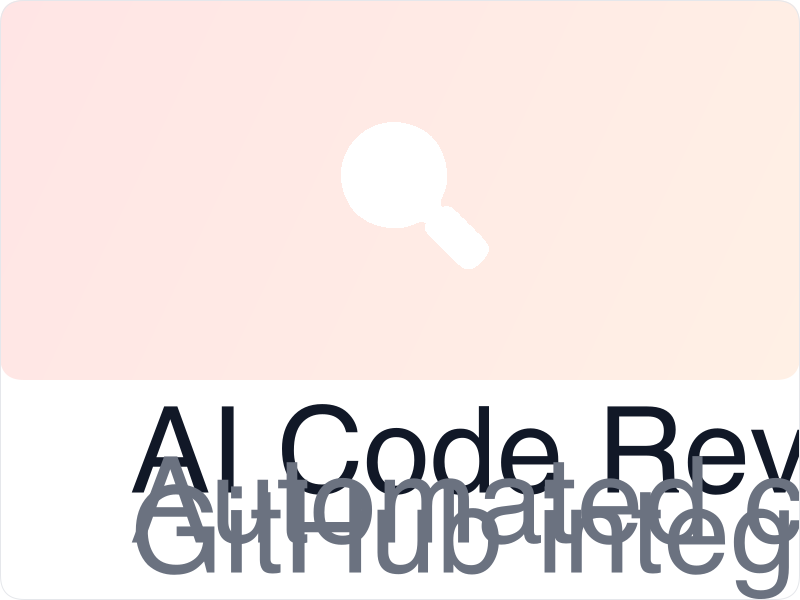
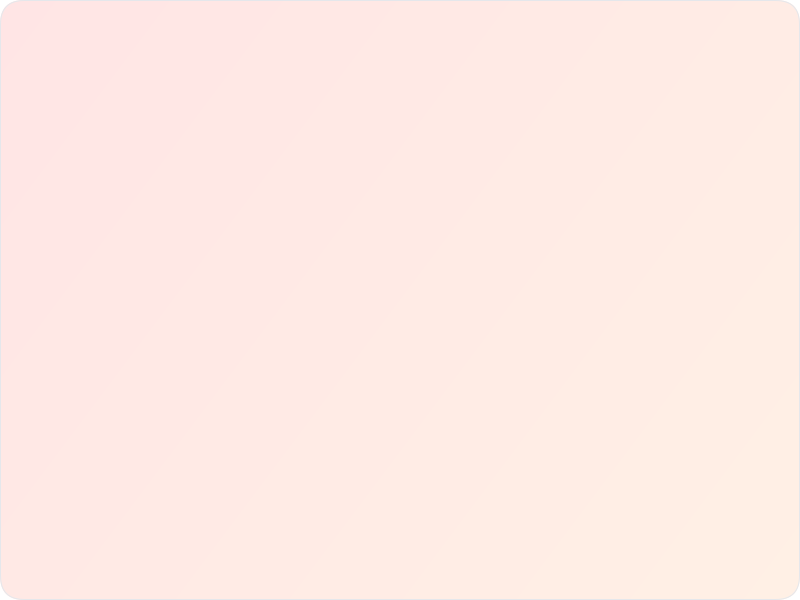
fix: regenerate project cards as clean gradient headers
Issue: Images had text baked in, overlapping with card HTML text

Changes:
- Removed title and description from generated images
- Images now only show gradient + centered emoji
- Removed white text section from canvas
- Full gradient background with rounded corners

Benefits:
- Clean separation: images for visuals, HTML for text
- 50-60% smaller file sizes (12-28KB vs 48-60KB)
- Better accessibility (text is in HTML, not images)
- Easier to maintain and update text content

New Image Sizes:
- rag-qa-system.png: 60KB → 22KB
- chatbot-platform.png: 54KB → 20KB
- agent-workflow.png: 59KB → 28KB
- ai-code-reviewer.png: 48KB → 12KB
- content-generator.png: 52KB → 23KB
- data-analyst.png: 57KB → 25KB
- portfolio-deployment.png: 55KB → 27KB

Total savings: ~250KB → ~160KB (36% reduction)

diff --git a/scripts/generate-project-cards.js b/scripts/generate-project-cards.js
@@ -88,38 +88,21 @@ function generateProjectCard(projectId) {
   ctx.antialias = 'subpixel'
   ctx.patternQuality = 'best'
 
-  // Draw gradient background
-  const gradient = ctx.createLinearGradient(0, 0, width, 380)
+  // Draw gradient background (full canvas)
+  const gradient = ctx.createLinearGradient(0, 0, width, height)
   gradient.addColorStop(0, config.gradientStart)
   gradient.addColorStop(1, config.gradientEnd)
 
-  // Rounded rectangle for gradient section
-  roundRect(ctx, 0, 0, width, 380, 24, gradient)
+  // Fill entire canvas with gradient
+  roundRect(ctx, 0, 0, width, height, 24, gradient)
 
-  // White bottom section
-  ctx.fillStyle = '#FFFFFF'
-  ctx.fillRect(0, 380, width, 220)
-
-  // Draw emoji
+  // Draw emoji (centered in the gradient area)
   ctx.font = '120px "Apple Color Emoji", "Segoe UI Emoji", sans-serif'
   ctx.textAlign = 'center'
   ctx.textBaseline = 'middle'
-  ctx.fillText(config.emoji, width / 2, 200)
+  ctx.fillText(config.emoji, width / 2, height / 2)
 
-  // Title
-  ctx.font = 'bold 48px "Inter", -apple-system, BlinkMacSystemFont, "Segoe UI", sans-serif'
-  ctx.fillStyle = '#111827'
-  ctx.textAlign = 'left'
-  ctx.fillText(config.title, 130, 460)
-
-  // Description lines
-  ctx.font = '20px "Inter", -apple-system, BlinkMacSystemFont, "Segoe UI", sans-serif'
-  ctx.fillStyle = '#6B7280'
-  config.description.forEach((line, index) => {
-    ctx.fillText(line, 130, 510 + (index * 30))
-  })
-
-  // Add subtle border
+  // Add subtle border to gradient section only
   ctx.strokeStyle = '#E5E7EB'
   ctx.lineWidth = 1
   roundRect(ctx, 0.5, 0.5, width - 1, height - 1, 24, null, true)
